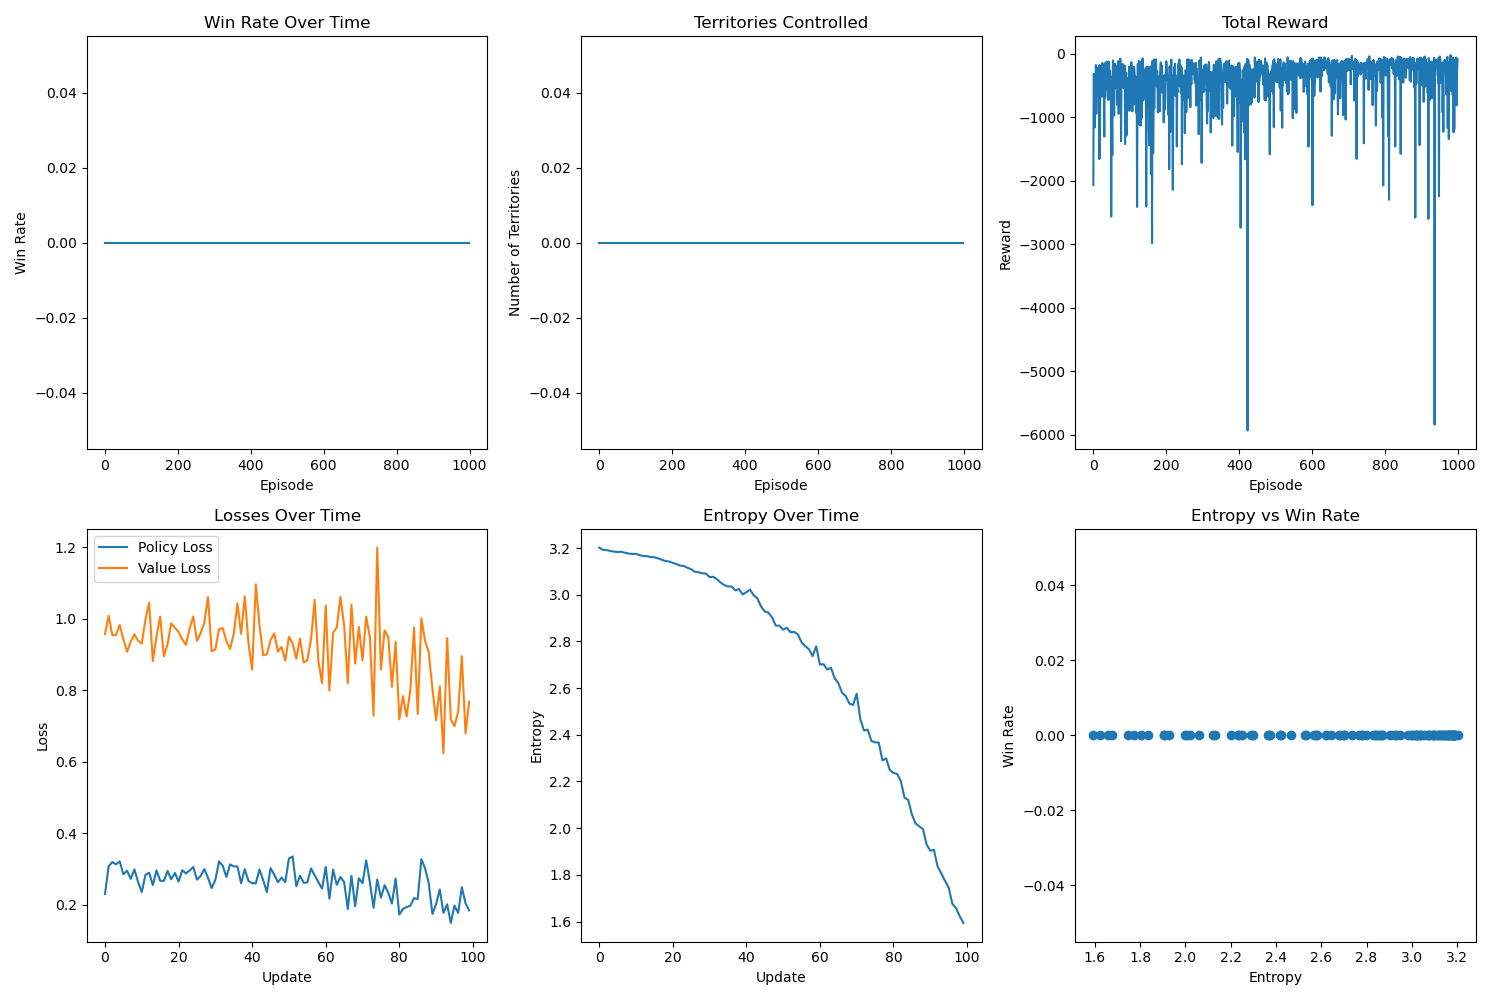
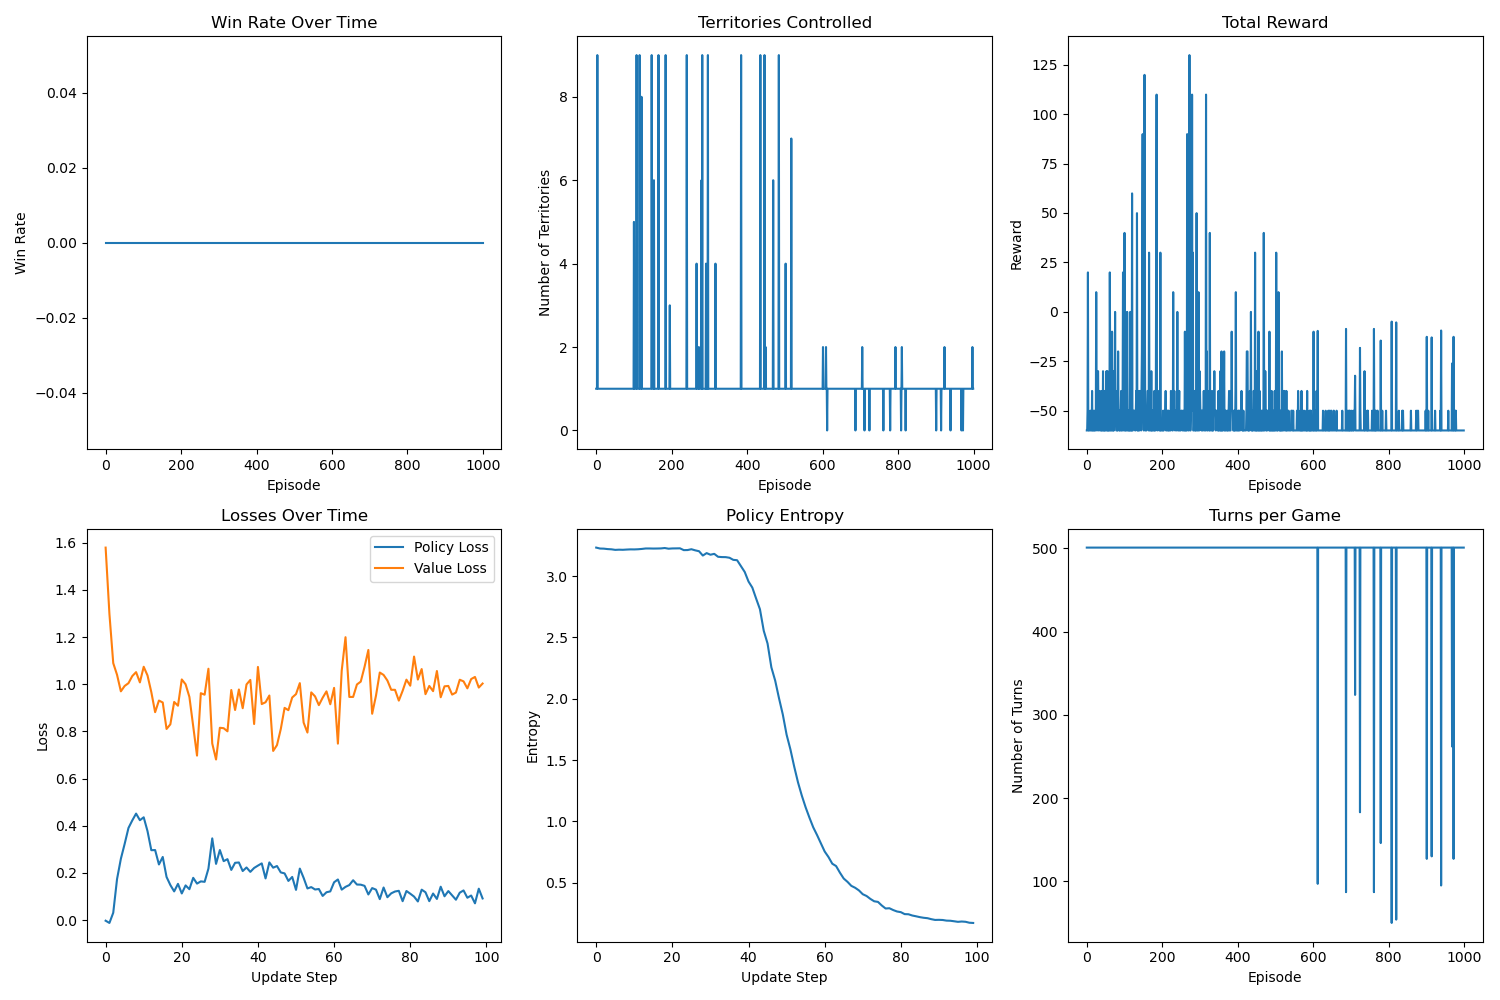
issues with deadlocking, updates to reward structure for simple implementation

diff --git a/simple/train_any_bot.py b/simple/train_any_bot.py
@@ -86,7 +86,7 @@ def train_ppo_against_bot(opponent_bot, num_episodes=1000, update_every=10):
     """
     # Initialize game state and agents
     game_state = SimpleGameState()
-    ppo_agent = SimplePPOAgent(state_dim=120, action_dim=len(attack_pairs))
+    ppo_agent = SimplePPOAgent(state_dim=31, action_dim=len(attack_pairs))  # 31-dimensional state vector
     
     # Training metrics
     win_history = []
@@ -118,7 +118,7 @@ def train_ppo_against_bot(opponent_bot, num_episodes=1000, update_every=10):
                 
                 # Get current state
                 current_state = game_state.get_state_vector()
-                print(f"State vector shape: {current_state.shape}")  # Debug print
+                #print(f"State vector shape: {current_state.shape}")  # Debug print
                 action, action_prob = ppo_agent.get_action(game_state)
                 
                 # Execute action
@@ -129,25 +129,29 @@ def train_ppo_against_bot(opponent_bot, num_episodes=1000, update_every=10):
                         num_troops = game_state.get_troops(from_territory) - 1
                         result = game_state.attack(1, from_territory, to_territory, num_troops)
                         
-                        # Calculate reward
+                        # Only reward territory conquest
                         reward = 0
                         if result["territory_conquered"]:
-                            reward = 5.0  # Reward for conquering territory
-                            if len(game_state.get_owned_territories(1)) > len(game_state.get_owned_territories(2)):
-                                reward += 2.0  # Bonus for having more territories
-                        else:
-                            # Reward based on damage dealt
-                            reward = result["defender_losses"] * 0.5 - result["attacker_losses"] * 0.3
+                            reward = 10.0  # Reward for conquering territory
                     else:
-                        reward = -0.1  # Penalty for invalid attack
+                        reward = 0  # No penalty for invalid attack
                 else:
-                    reward = -0.2  # Penalty for passing
+                    reward = 0  # No penalty for passing
                 
                 # Add turn penalty
-                reward -= 0.02 * turns
+                reward -= 0.1  # Small penalty per turn
+                
+                # Add game end rewards
+                if done:
+                    if game_state.get_winner() == 1:
+                        reward += 100.0  # Large reward for winning
+                    elif game_state.get_winner() == 2:
+                        reward -= 10.0  # Small penalty for losing
+                    else:
+                        reward = 0  # No penalty for timeout
                 
                 # Get next state
-                next_state = ppo_agent.get_state_vector(game_state)
+                next_state = game_state.get_state_vector()
                 
                 # Store experience
                 ppo_agent.remember(current_state, action, action_prob, reward, next_state, done)
@@ -158,8 +162,8 @@ def train_ppo_against_bot(opponent_bot, num_episodes=1000, update_every=10):
                 turns += 1
                 
                 # Safety check for long games
-                if turns > 250:
-                    print(f"Game exceeded 250 turns, ending episode {episode + 1}")
+                if turns > 500:
+                    #print(f"Game exceeded 500 turns, ending episode {episode + 1}")
                     total_reward -= 10.0
                     done = True
                     break

diff --git a/simple/ppo_agent.py b/simple/ppo_agent.py
@@ -8,7 +8,7 @@ from torch.distributions import Categorical
 class PolicyNetwork(nn.Module):
     def __init__(self, state_dim, action_dim):
         super(PolicyNetwork, self).__init__()
-        # Input layer: 21-dimensional state (10 troops + 10 owners + 1 turn flag)
+        # Input layer: 31-dimensional state (10 troops + 10 owners + 1 turn flag + 10 adjacency)
         self.fc1 = nn.Linear(state_dim, 64)
         self.ln1 = nn.LayerNorm(64)
         
@@ -33,7 +33,7 @@ class PolicyNetwork(nn.Module):
 class ValueNetwork(nn.Module):
     def __init__(self, state_dim):
         super(ValueNetwork, self).__init__()
-        # Input layer: 21-dimensional state
+        # Input layer: 31-dimensional state (10 troops + 10 owners + 1 turn flag + 10 adjacency)
         self.fc1 = nn.Linear(state_dim, 64)
         self.ln1 = nn.LayerNorm(64)
         
@@ -67,46 +67,14 @@ class SimplePPOAgent:
         
         self.memory = []
         
-    def get_state_vector(self, game_state):
-        """Convert game state to observation vector"""
-        # Get troop counts (normalized)
-        troops = np.array([game_state.get_troops(i) / 10.0 for i in range(10)])
-        
-        # Get ownership (1 for player 1, 0 for player 2)
-        owners = np.array([1 if game_state.get_owner(i) == 1 else 0 for i in range(10)])
-        
-        # Get turn flag (1 for player 1's turn, 0 for player 2's turn)
-        turn_flag = np.array([1 if game_state.current_player == 1 else 0])
-        
-        # Add territory adjacency information
-        adjacency = np.zeros(10)
-        for i in range(10):
-            for adj in game_state.adjacency[i]:
-                if game_state.get_owner(adj) != game_state.get_owner(i):
-                    adjacency[i] = 1
-                    break
-        
-        # Concatenate all features
-        return np.concatenate([troops, owners, turn_flag, adjacency])
-        
     def get_action(self, game_state):
         """Get action from policy network"""
-        # Convert state to tensor
-        state = self.get_state_vector(game_state)
-        state_tensor = torch.FloatTensor(state)
-        
-        # Get action probabilities
+        state = game_state.get_state_vector()
+        state_tensor = torch.FloatTensor(state).unsqueeze(0)
         action_probs = self.policy_net(state_tensor)
-        
-        # Choose action using epsilon-greedy
-        if np.random.random() < self.epsilon:
-            # Random exploration
-            action = np.random.randint(len(action_probs))
-        else:
-            # Choose based on policy
-            action = torch.multinomial(action_probs, 1).item()
-            
-        return action, action_probs[action].item()
+        dist = Categorical(action_probs)
+        action = dist.sample()
+        return action.item(), action_probs[0][action.item()].item()
         
     def remember(self, state, action, action_prob, reward, next_state, done):
         self.memory.append((state, action, action_prob, reward, next_state, done))

diff --git a/simple/game_state.py b/simple/game_state.py
@@ -125,19 +125,24 @@ class SimpleGameState:
     def get_state_vector(self):
         """Get state vector for PPO agent"""
         # Basic territory info
-        territory_info = self.state[:, 1]  # Troop counts
+        territory_info = self.state[:, 1]  # Troop counts (10 dim)
         
-        # Add adjacency information
-        adjacency_matrix = np.zeros((10, 10))
+        # Get ownership (1 for player 1, 0 for player 2)
+        ownership_info = np.array([1 if self.get_owner(i) == 1 else 0 for i in range(10)])  # (10 dim)
+        
+        # Get turn flag (1 for player 1's turn, 0 for player 2's turn)
+        turn_flag = np.array([1 if self.current_player == 1 else 0])  # (1 dim)
+        
+        # Add territory adjacency information (simplified)
+        adjacency = np.zeros(10)  # (10 dim)
         for i in range(10):
-            for j in self.adjacency.get(i, []):
-                adjacency_matrix[i][j] = 1
-        adjacency_info = adjacency_matrix.flatten()
+            for adj in self.adjacency[i]:
+                if self.get_owner(adj) != self.get_owner(i):
+                    adjacency[i] = 1
+                    break
         
-        # Add ownership info
-        ownership_info = self.state[:, 0]  # Owner (1 or 2)
-        
-        return np.concatenate([territory_info, adjacency_info, ownership_info])
+        # Concatenate all features
+        return np.concatenate([territory_info, ownership_info, turn_flag, adjacency])  # Total: 31 dim
         
     def __str__(self):
         return (

diff --git a/simple/random_bot.py b/simple/random_bot.py
@@ -22,6 +22,9 @@ class RandomBot:
         
         # Attack with a random number of troops (must leave 1 behind)
         max_troops = game_state.get_troops(from_territory) - 1
+        if max_troops <= 0:  # If we can't attack (only 1 troop)
+            return None, None, None
+            
         num_troops = random.randint(1, min(3, max_troops))  # Max 3 troops like in Risk
         
         return from_territory, to_territory, num_troops 
